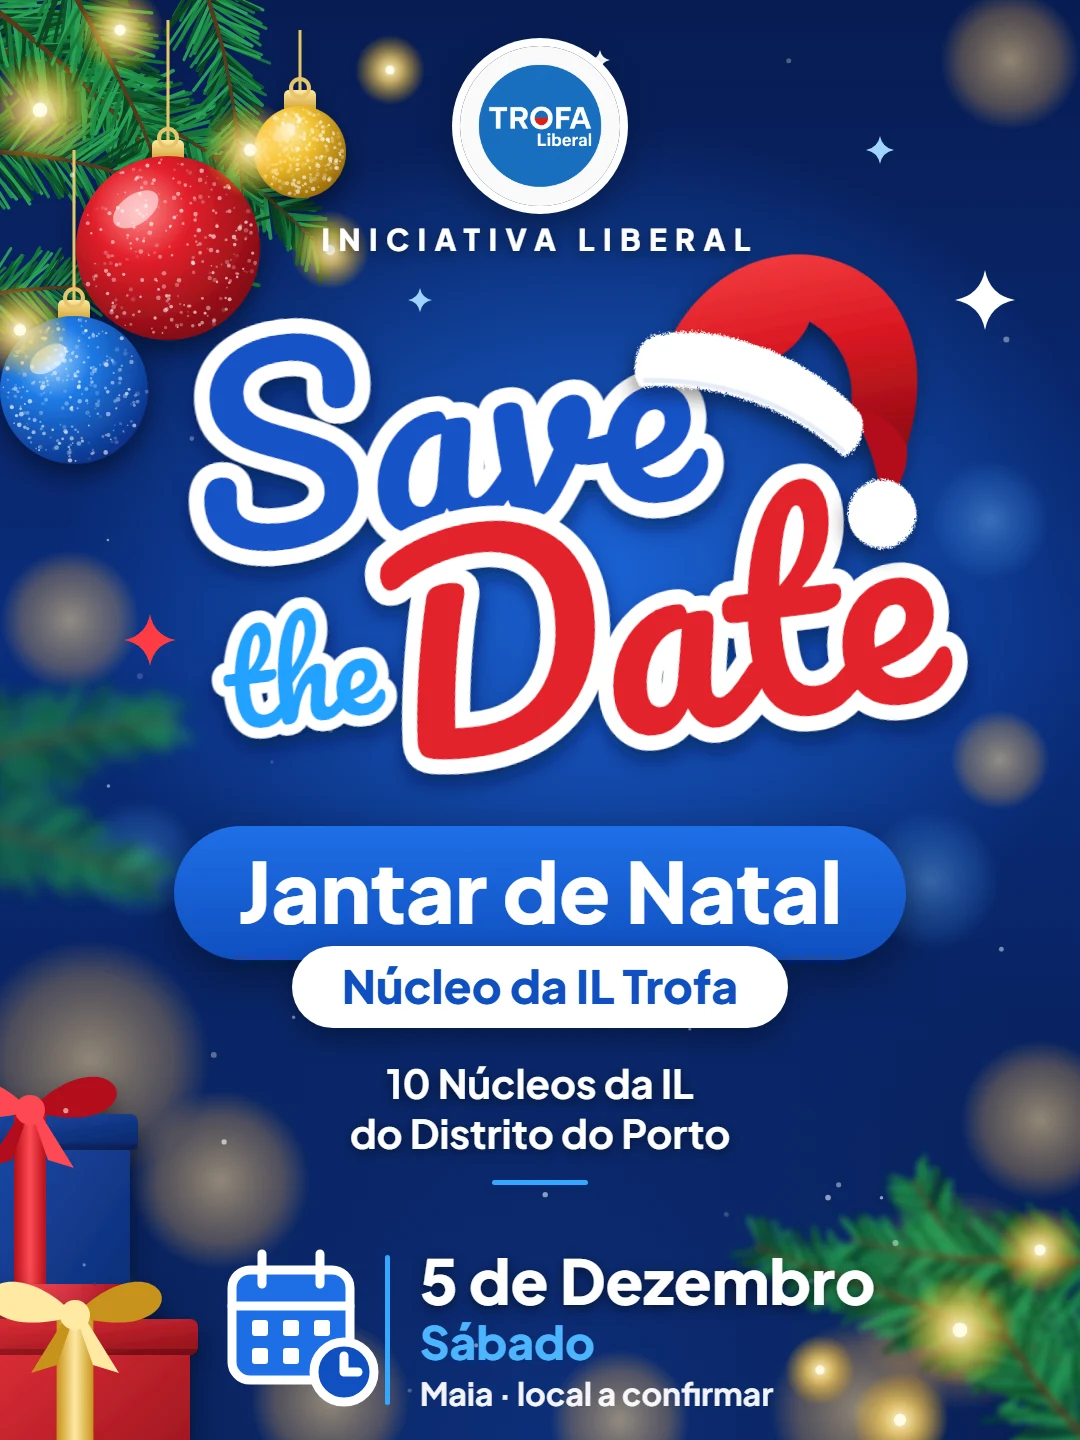
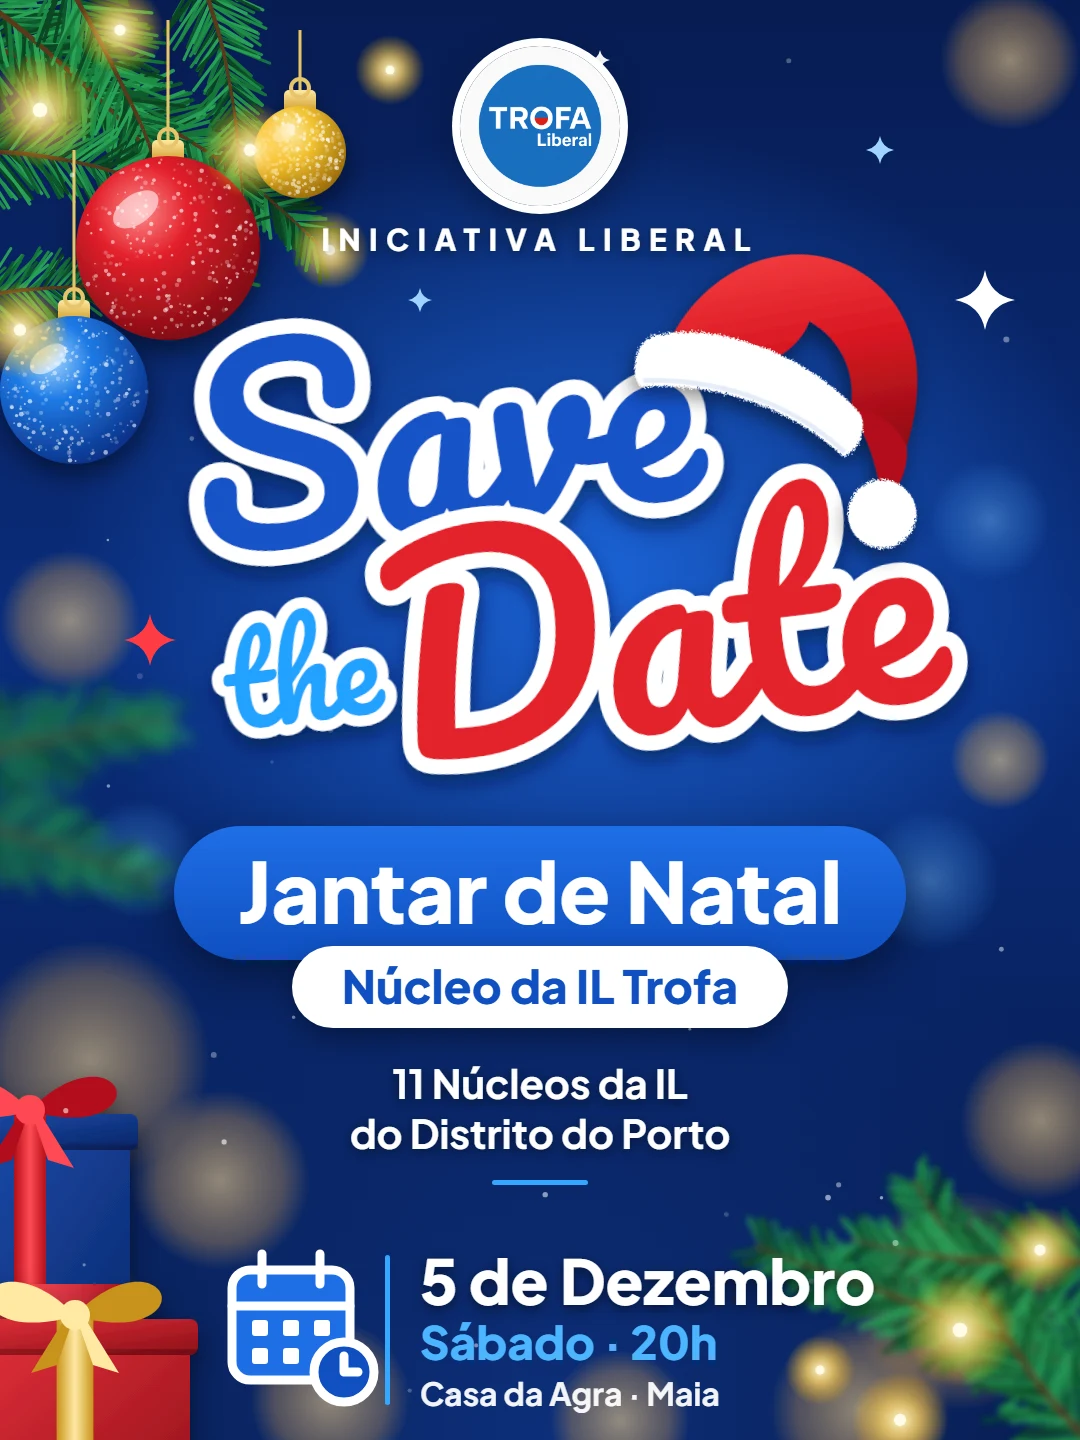
Jantar de Natal: 11 núcleos, Casa da Agra (Maia), 20h

Changed region(s): [[0.3972, 0.9062, 0.7028, 1.0], [0.3667, 0.7188, 0.6417, 0.7812]]

diff --git a/lib/eventos.ts b/lib/eventos.ts
@@ -24,9 +24,9 @@ export type Evento = {
 export const proximos: Evento[] = [
   {
     titulo: "Jantar de Natal dos núcleos do distrito do Porto",
-    data: "5 de dezembro, sábado",
-    local: "Maia (local a confirmar)",
-    texto: "O Núcleo da Trofa junta-se a mais nove núcleos da Iniciativa Liberal do distrito do Porto. Reserva a data.",
+    data: "5 de dezembro, sábado, 20h",
+    local: "Casa da Agra, Maia",
+    texto: "O Núcleo da Trofa junta-se a mais dez núcleos da Iniciativa Liberal do distrito do Porto. Reserva a data.",
     imagem: "/images/eventos/jantar-natal-2026.webp",
   },
 ];
